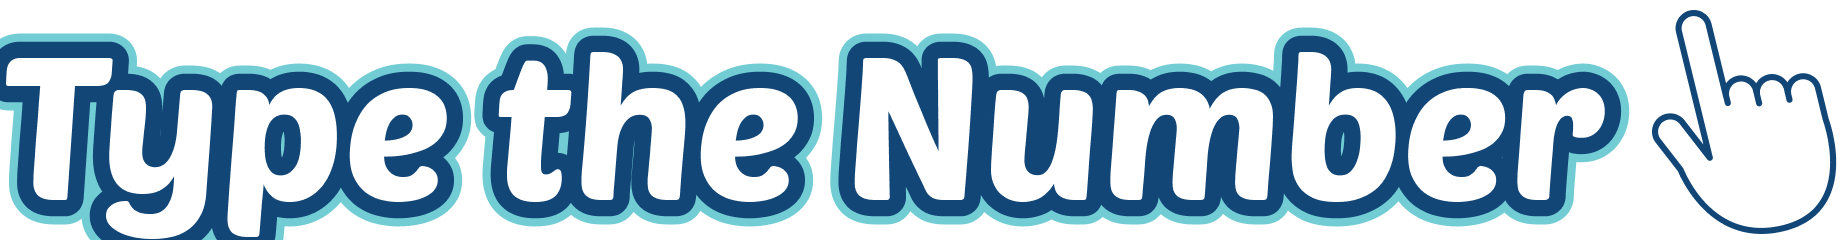
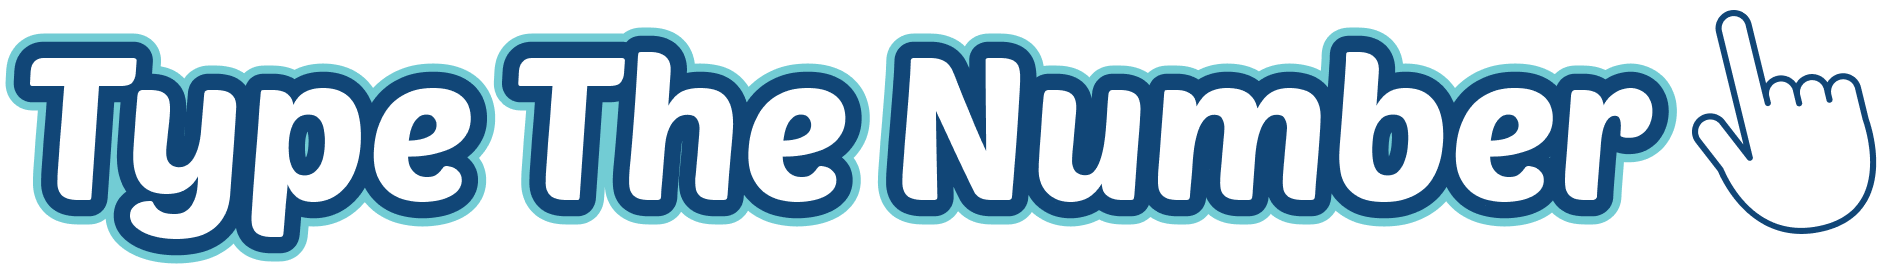
fixed bug in count of tries, title

diff --git a/lib/src/core/games_structure/basic_of_game_data.dart b/lib/src/core/games_structure/basic_of_game_data.dart
@@ -998,7 +998,7 @@ class MathDragBlocksSub implements BasicOfGameData {
   MathDragBlocksSub({required this.tools});
 
   @override
-  String titleImageEn = AppImagesMath.clickTheChoose;
+  String titleImageEn = AppImagesMath.mathDragDrop;
 
   @override
   String? completeBasket;
@@ -1040,7 +1040,7 @@ class MathDragDominoOE implements BasicOfGameData {
   MathDragDominoOE({required this.tools});
 
   @override
-  String titleImageEn = AppImagesMath.clickTheChoose;
+  String titleImageEn = AppImagesMath.mathDragDrop;
 
   @override
   String? completeBasket;
@@ -1187,7 +1187,7 @@ class CTNumberGame implements BasicOfGameData {
   CTNumberGame({required this.tools, required this.showLineOfNumbers});
 
   @override
-  String titleImageEn = AppImagesMath.countTypeTheNumber;
+  String titleImageEn = AppImagesMath.typeTheNumber;
 
   @override
   String? completeBasket;
@@ -1200,7 +1200,7 @@ class CTNumberGame implements BasicOfGameData {
   late SymbolsMath tools;
   late bool showLineOfNumbers;
   @override
-  int countOfMinimizeStar = 1;
+  int countOfMinimizeStar = 2;
 }
 
 class DDTChangeGame implements BasicOfGameData {
@@ -1220,7 +1220,7 @@ class DDTChangeGame implements BasicOfGameData {
   @override
   String? titleImageAr;
   @override
-  int countOfMinimizeStar = 1;
+  int countOfMinimizeStar = 2;
 }
 
 class MathChooseBoard implements BasicOfGameData {

diff --git a/lib/src/games/math/choose_add_beads_line/manager/choose_add_beads_line_cubit.dart b/lib/src/games/math/choose_add_beads_line/manager/choose_add_beads_line_cubit.dart
@@ -31,14 +31,23 @@ class ChooseAddBeadsLineCubit extends Cubit<ChooseAddBeadsLineInitial> {
     GameFinalModel newData = state.allGameData[newIndex];
     List<GameChoicesGameFinalModel> gameChoices = newData.gameChoices ?? [];
     gameChoices.shuffle();
-    GameLettersGameFinalModel mainQuestion = newData.gameLetters!
-        .where((element) => element.mainQuestion == 1)
-        .toList()
-        .first;
-    GameLettersGameFinalModel subQuestion = newData.gameLetters!
-        .where((element) => element.mainQuestion == 0)
-        .toList()
-        .first;
+
+    GameLettersGameFinalModel mainQuestion;
+    GameLettersGameFinalModel subQuestion;
+    try {
+      mainQuestion = newData.gameLetters!
+          .where((element) => element.mainQuestion == 1)
+          .toList()
+          .first;
+      subQuestion = newData.gameLetters!
+          .where((element) => element.mainQuestion == 0)
+          .toList()
+          .first;
+    } catch (e) {
+      mainQuestion = newData.gameLetters!.first;
+      subQuestion = newData.gameLetters!.last;
+    }
+
     emit(state.copyWith(
         gameData: newData,
         gameChoices: gameChoices,
